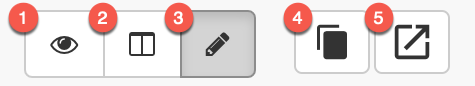
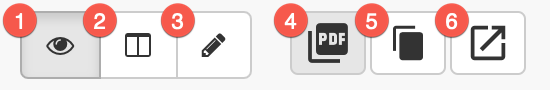
note pdf exporter

diff --git a/docs/documentation/client/notes.md b/docs/documentation/client/notes.md
@@ -11,7 +11,7 @@ import Mermaid from '@theme/Mermaid';
 
 ## Overview {#overview}
 
-Easily create notes to share and edit in real-time among other users within the Cotalker environment. Thanks to our powerful [search tool](/docs/documentation/client/client_search#shared-documents), _task notes_ can be made accessible to all users, thus creating a dynamic knowledge base for your company that all users can help build.
+Easily create notes to share and edit in real-time among other users within the Cotalker environment. Thanks to our powerful [search tool](/docs/documentation/client/client_search#shared-documents), _task notes_ can be made accessible to all users, thus creating a dynamic knowledge base for your company that all users can help build. Plus, you can save notes as PDF documents.
 
 The _Notes_ tool uses [markdown syntax](/docs/documentation/client/notes_markdown) to help you focus on writing the text and forget about formatting. 
 
@@ -107,11 +107,12 @@ The Notes tool can appear either within the task view or as an individual web br
 
 <div className="padding-left--lg">
 
-1. **Edit**: See only the editor.
-2. **View**: See only the result.
-3. **Both**: See both in split view.
-4. **Copy**: Copy link to clipboard.
-5. **Pop-out**: Open note in new tab.
+1. **View**: Display the formatted document only.
+2. **Both**: Split view with the editor and formatted document.
+3. **Edit**: Display only the editor.
+4. **PDF**: Export the formatted document as a PDF document.
+5. **Copy**: Copy link to clipboard.
+6. **Pop-out**: Open note in new tab.
 
 </div>
 <br/>
